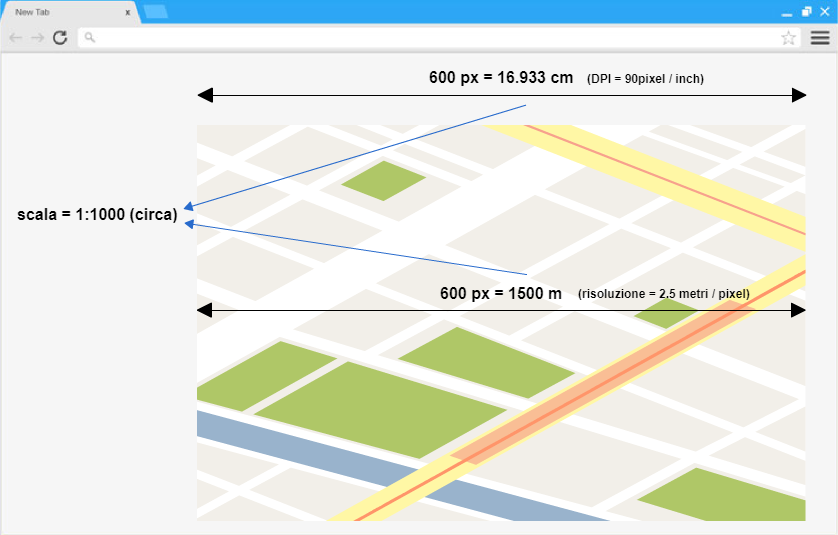
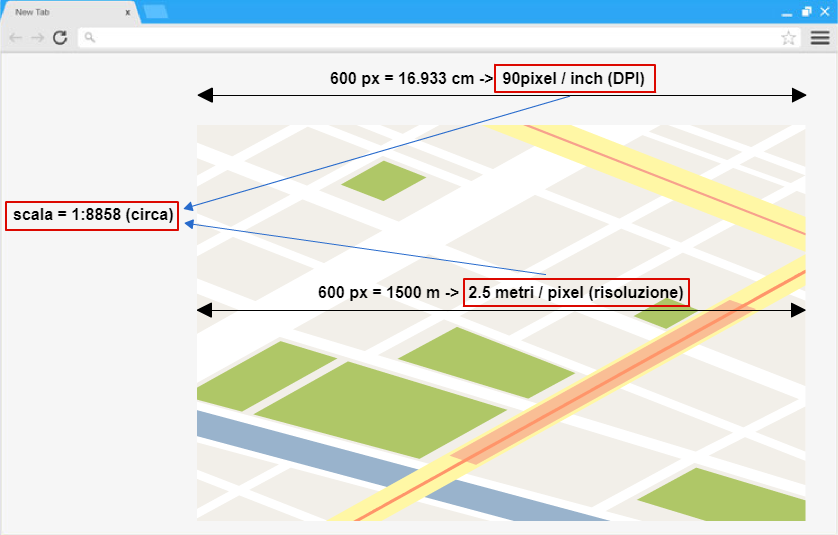
up

diff --git a/_lessons/l5.md b/_lessons/l5.md
@@ -1,5 +1,5 @@
 ---
-title: Proiezioni, griglie e risoluzioni
+title: Proiezioni e risoluzioni
 day: 2
 ---
 
@@ -75,31 +75,91 @@ Come già detto l'inclusione di proj4js e della definizione del SR è necessario
 
 In questo esempio abbiamo eseguito una trasformazione usando direttamente i valori delle coordinate. Come vedremo più avanti è possibile eseguire trasformazioni anche direttamente su singoli elementi geometrici (punti, linee e poligoni) o su interi strati vettoriali e raster.
 
-# E la scala? #
+# Scala #
 Una domanda che viene posta spesso dagli utenti dei servizi WebGIS è di poter visualizzare o impostare la _scala geografica_ della mappa. Si capisce questa esigenza, data dalla possibilità di determinare esattamente tale valore sia su supporti fisici che all'interno dei software desktop GIS. Sul web questa richiesta si scontra con un problema fondamentale: non è possibile sapere esattamente la risoluzione (DPI - dots per ingh) dello schermo su cui si sta visualizzando la pagina Web. Spieghiamo cosa significa...
 
- Per poter determinare la dimensione di un elemente grafico rappresentato su supporto digitale è necessario sapere qual'è il rapporto tra il numero di pixel rappresentati sullo schermo e la loro effettiva dimensione metrica. Conoscendo questo rapporto, appunto i _dots per inch_ (punti per pollice o, tramite conversione, per cm o metro), posso sapere che un oggetto largo 100px avrà una dimensione sullo schermo:
+ Per poter determinare la dimensione di un elemente grafico rappresentato su supporto digitale è necessario sapere qual'è il rapporto tra il numero di pixel rappresentati sullo schermo e la loro effettiva dimensione metrica. Conoscendo questo rapporto, appunto i **dots per inch** (punti per pollice o, tramite conversione, per cm o metro), posso sapere la dimensione sullo schermo di un elemento grafico.
  
- {% highlight javascript %}
- var width = 600; // dimensione mappa in pixel
- var dpi = 90; // risoluzione schermo in pixel per pollice
- var dpc = 90 * 0.393701 // -> 35.43309 risoluzione schermo in pixel per centimetro
- var centimetri_schermo = width / dpc // -> 16.933 dimensione mappa in centimetri
- {% endhighlight %}
+{% highlight javascript %}
+var centimetri = 20 // dimensione mappa in centimetri
+var dimensione_pixels = 600; // dimensione mappa in pixel
+var dpc = width_pixels / centimetri // -> 30 risoluzione schermo in pixel per centimetro
+var centimetri_pixel = 1 / dpc // centrimentri per pixel
+{% endhighlight %}
  
- Se a questo si abbina l'informazione della _risoluzione_ della nostra mappa, che in OL significa il rapporto metri / pixel del contenuto della mappa, avremmo tutto quello che ci serve per sapere la _scala_ della mappa:
+ Se a questo si abbina l'informazione della **risoluzione** della nostra mappa, che in OL significa il rapporto metri / pixel del contenuto della mappa, avremmo tutto quello che ci serve per sapere la _scala_ della mappa:
  
-  {% highlight javascript %}
- var width = 600; // dimensione oggetto in pixel
- var risoluzione = 2.5; // risoluzione mappa in metri per pixel
- var metri_contenuto = width * risoluzione // -> 1500 dimensione in metri del contenuto della mappa
- var scala = centimetri_schermo / metri_contenuto * 100 // scala mappa, corrispondente ad un rapporto di circa 1:10000
- {% endhighlight %}
+{% highlight javascript %}
+var dimensione_metri = 1500 // dimensione in metri del contenuto della mappa
+var dimensione_pixels = 600; // dimensione mappa in pixel
+var risoluzione = dimensione_metri /dimensione_pixels; // risoluzione mappa in metri per pixel
+var rapporto_scala = risoluzione / centimetri_pixel * 100 // -> 7500 rapporto di scala della mappa
+{% endhighlight %}
  
  <br>
-!["Scala mappa"]({{ "/assets/img/scale.png" | relative_url }} "Scala mappa")
+!["Scala di una mappa"]({{ "/assets/img/scale.png" | relative_url }} "Scala di una mappa")
 <br>
-
  
  Questo in teoria, ma come abbiamo detto ci manca l'informazione di base: nessuno ci sa dire, all'interno di un browser web, i DPI dello schermo. Ne consegue che **non è possibile determinare con precisione la scala di una mappa all'interno di una pagina Web**.
- Per poter ottenere un valore _indicativo_ si usano valori standard di DPI. Spesso si usa, ad esempio, il valore DPI ottenuto dallo standard WMS di OGC. **WMS 1.3 definisce una dimensione standard del pixel di 0.28mm**, da cui si può ricavare un DPI di `25.4/0.28 = 90.71` pixel / cm.
+ Per poter ottenere un valore _indicativo_ si usano valori standard di DPI. Spesso si usa, ad esempio, il valore DPI ottenuto dallo standard WMS di OGC. **WMS 1.3 definisce una dimensione standard del pixel di 0.28mm**, da cui si può ricavare un DPI di `25.4/0.28 = 90.71` pixel / inch.
+ 
+ # Risoluzione e zoom #
+ Direttamente collegato al concetto di risoluzione geografica della mappa (metri / pixel) c'è quello di **zoom**. L'aumento del livello di zoom corrisponde ad una diminuzione del valore della risoluzione, perché a marita di pixel sarà rappresentata una porzione più piccola di mappa.
+ In OpenLayers, se non definito altrimenti, i livelli di zoom sono calcolati automaticamente sulla base di un livello minimo e un livello massimo di zoom e un rapporto tra livelli successivi di un fattora 2. In altre parole ad ogni passaggio tra livelli di zoom adiacenti la risoluzione si raddoppia o si dimezza.
+ 
+ Negli esempi con una mappa con sistema di riferimento ESPG:3857 il calcolo delle risoluzioni (e quindi degli zoom) avviene più o meno così:
+ 
+{% highlight javascript %}
+var estensione_proj = [-20037508.342789244, -20037508.342789244, 20037508.342789244, 20037508.342789244] // estensione su cui è definita la proiezione
+var larghezza = 20037508.342789244 * 2; // larghezza totale in metri dell'estensione
+var maxResolution = larghezza / 256 // -> 156543.03392804097 larghezza diviso la larghezza, in pixel, di una singola tile
+var resolutions = [];
+for(var i = 0; i<29; i++) { // calcolo la risoluzione tra un livello minimo 0 e un massimo di 28 (sono il numero di default di livelli di zoom)
+  resolutions.push(maxResolution / Math.pow(2,i)); // risoluzione / 2^0; risoluzione / 2^1; ecc.
+};
+console.log(resolutions); // stampo l'array nella console
+{% endhighlight %}
+
+Il risultato è che le risoluzioni della mappa precalcolate sono le seguenti:
+
+```
+0: 156543.03392804097
+1: 78271.51696402048
+2: 39135.75848201024
+3: 19567.87924100512
+4: 9783.93962050256
+5: 4891.96981025128
+6: 2445.98490512564
+7: 1222.99245256282
+8: 611.49622628141
+9: 305.748113140705
+10: 152.8740565703525
+11: 76.43702828517625
+12: 38.21851414258813
+13: 19.109257071294063
+14: 9.554628535647032
+15: 4.777314267823516
+16: 2.388657133911758
+17: 1.194328566955879
+18: 0.5971642834779395
+19: 0.29858214173896974
+20: 0.14929107086948487
+21: 0.07464553543474244
+22: 0.03732276771737122
+23: 0.01866138385868561
+24: 0.009330691929342804
+25: 0.004665345964671402
+26: 0.002332672982335701
+27: 0.0011663364911678506
+28: 0.0005831682455839253
+```
+
+Nel momento in cui andiamo a indicare, come nell'esempio precedente, un livello di zoom 10 stiamo dicendo alla mappa di settare la risoluzione a 152.874 metri / pixel. Qual'è la sua scala? Se usiamo i DPI standard (non reali) la scala sarà approssimativamente 1:545978:
+
+{% highlight javascript %}
+var DPI_STANDARD = 25.4/0.28;
+var cm_pixel = 1 / (DPI_STANDARD * 0.393701);
+var metri_pixel = 152.874;
+var rapporto_scala = metri_pixel / cm_pixel * 100; // -> 545978
+console.log("1:"+rapporto_scala); // -> "1:545978"
+{% endhighlight %}
